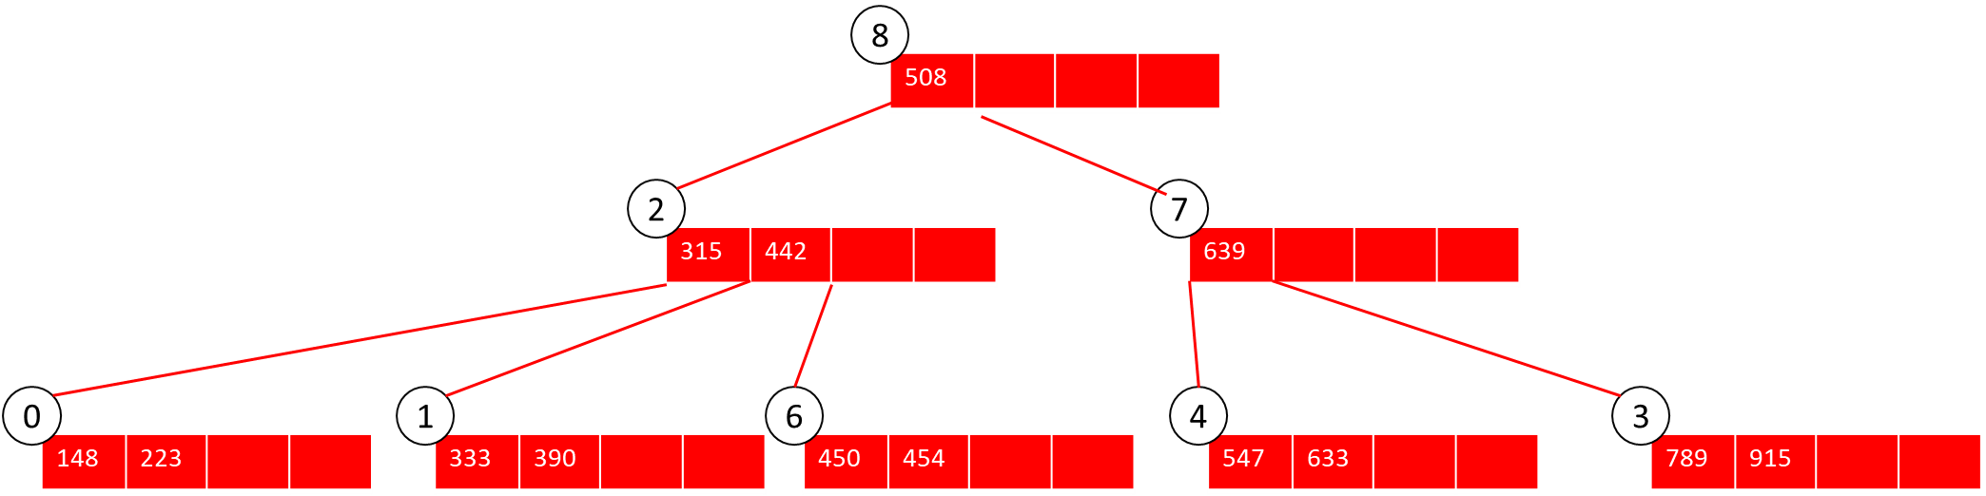
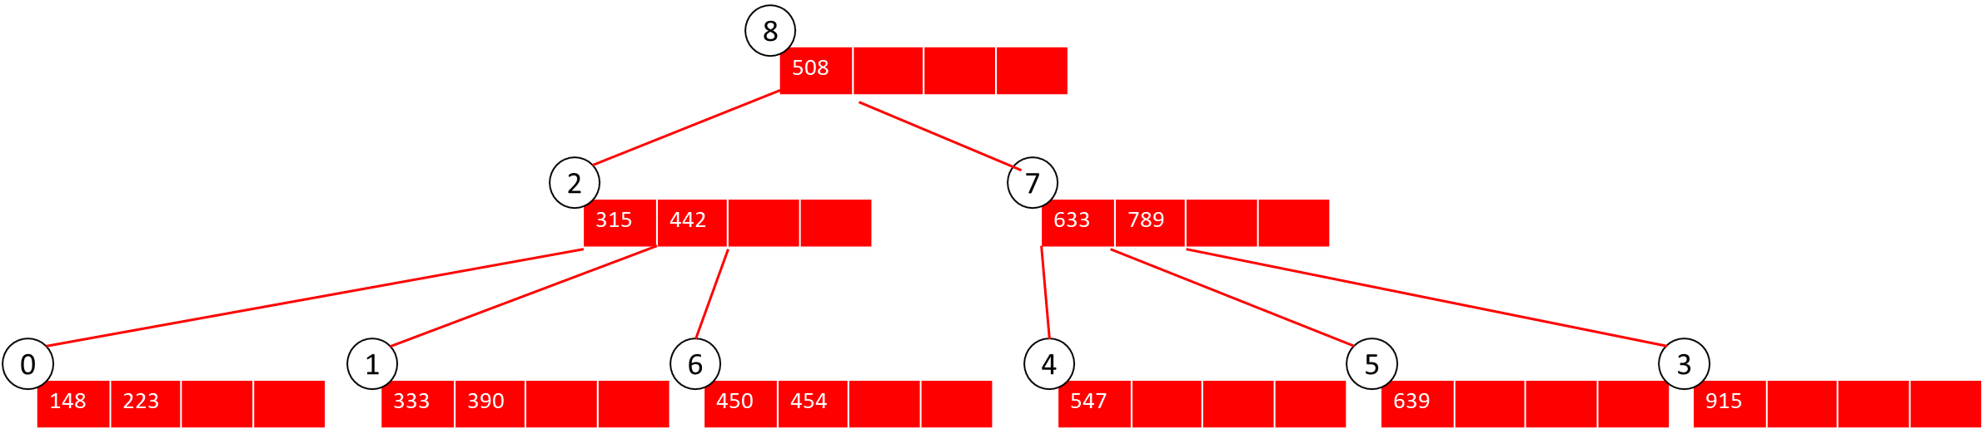
ejercicio 9

diff --git a/4- Arboles B/practica4.md b/4- Arboles B/practica4.md
@@ -398,12 +398,55 @@ LE/E: L8, L7, L4, L5, E4, E5, E7
 
 <br>`-614`
 
-Para dar de baja el 614, debemos moverlo primero a una hoja. Con lo cual intercambiamos el 547 por el 614, quien nos queda en el nodo 4.
+Para dar de baja el 614, debemos moverlo primero a una hoja. Con lo cual intercambiamos el 547 por el 633, quien nos queda en el nodo 5.
 
-El nodo 4 quedaría en underflow, con lo cual siguiendo la política de resolución debo ver al hermano adyacente derecho, el cual al no poder redistribuir cargas se debe fusionar.
+El nodo 5 quedaría en underflow, con lo cual siguiendo la política de resolución debo ver al hermano adyacente derecho, con el cual puedo fusionar tranquilamente
 
-LE/E necesarias: L8, L7, L4, L5, E4, E5, E7.
+LE/E necesarias: L8, L7, L5, L3,  E4, E5, E3, E7.
 
 <img src="img/ejercicio8_5.png" width=800>
 
 ----------------------------------------------------------
+
+
+9. Dado un árbol B de orden 5  y con política izquierda, para cada operación dada:
+* a. Dibuje el árbol resultante
+* b. Explique las decisiones tomadas
+* c. Escriba las lecturas y escrituras
+
+Operaciones: -76, -400, +900, +12
+
+<img src="img/ejercicio9_1.png" width=800>
+
+<br>`-76`
+
+Para dar de baja el 76, debo bajarlo al nivel de hojas, y para eso lo reemplazo por el menor de su subarbol derecho. En este caso por el 100 en el nodo 4.
+
+Luego, el nodo 4 queda con 76 y 200. Al eliminar el 76, el nodo NO entra en underflow, con lo cual no tenemos que hacer mayores cambios.
+
+LE/E: L2, L4, E4, E2
+
+<img src="img/ejercicio9_2.png" width=800>
+
+<br>`-400`
+
+Al dar de baja el 400, el nodo 1 queda en underflow.
+Como tengo politica izquierda, intento redistribuir con el nodo 4. Al no poder hacerlo, fusiono el nodo 4 y bajo el elemento separador.
+
+LE/E : L2, L1, L4, E4, E1, E2
+
+<img src="img/ejercicio9_3.png" width=800>
+
+<br>`+900`
+
+El 900 lo doy de alta en el nodo 3, no hay mayores inconvenientes.
+
+<img src="img/ejercicio9_4.png" width=800>
+
+<br>`+12`
+
+Al dar de alta el 12, el nodo 0 entra en overflow. Es por ello que debo crear un nuevo nodo (reutilizo el 1), y nos quedan 12 y 21 en el nodo 0, 46 y 70 en el 1, y sube el 45 al nodo 2
+
+LE/E: L2, L0, E0, E1, E2
+
+<img src="img/ejercicio9_5.png" width=800>
